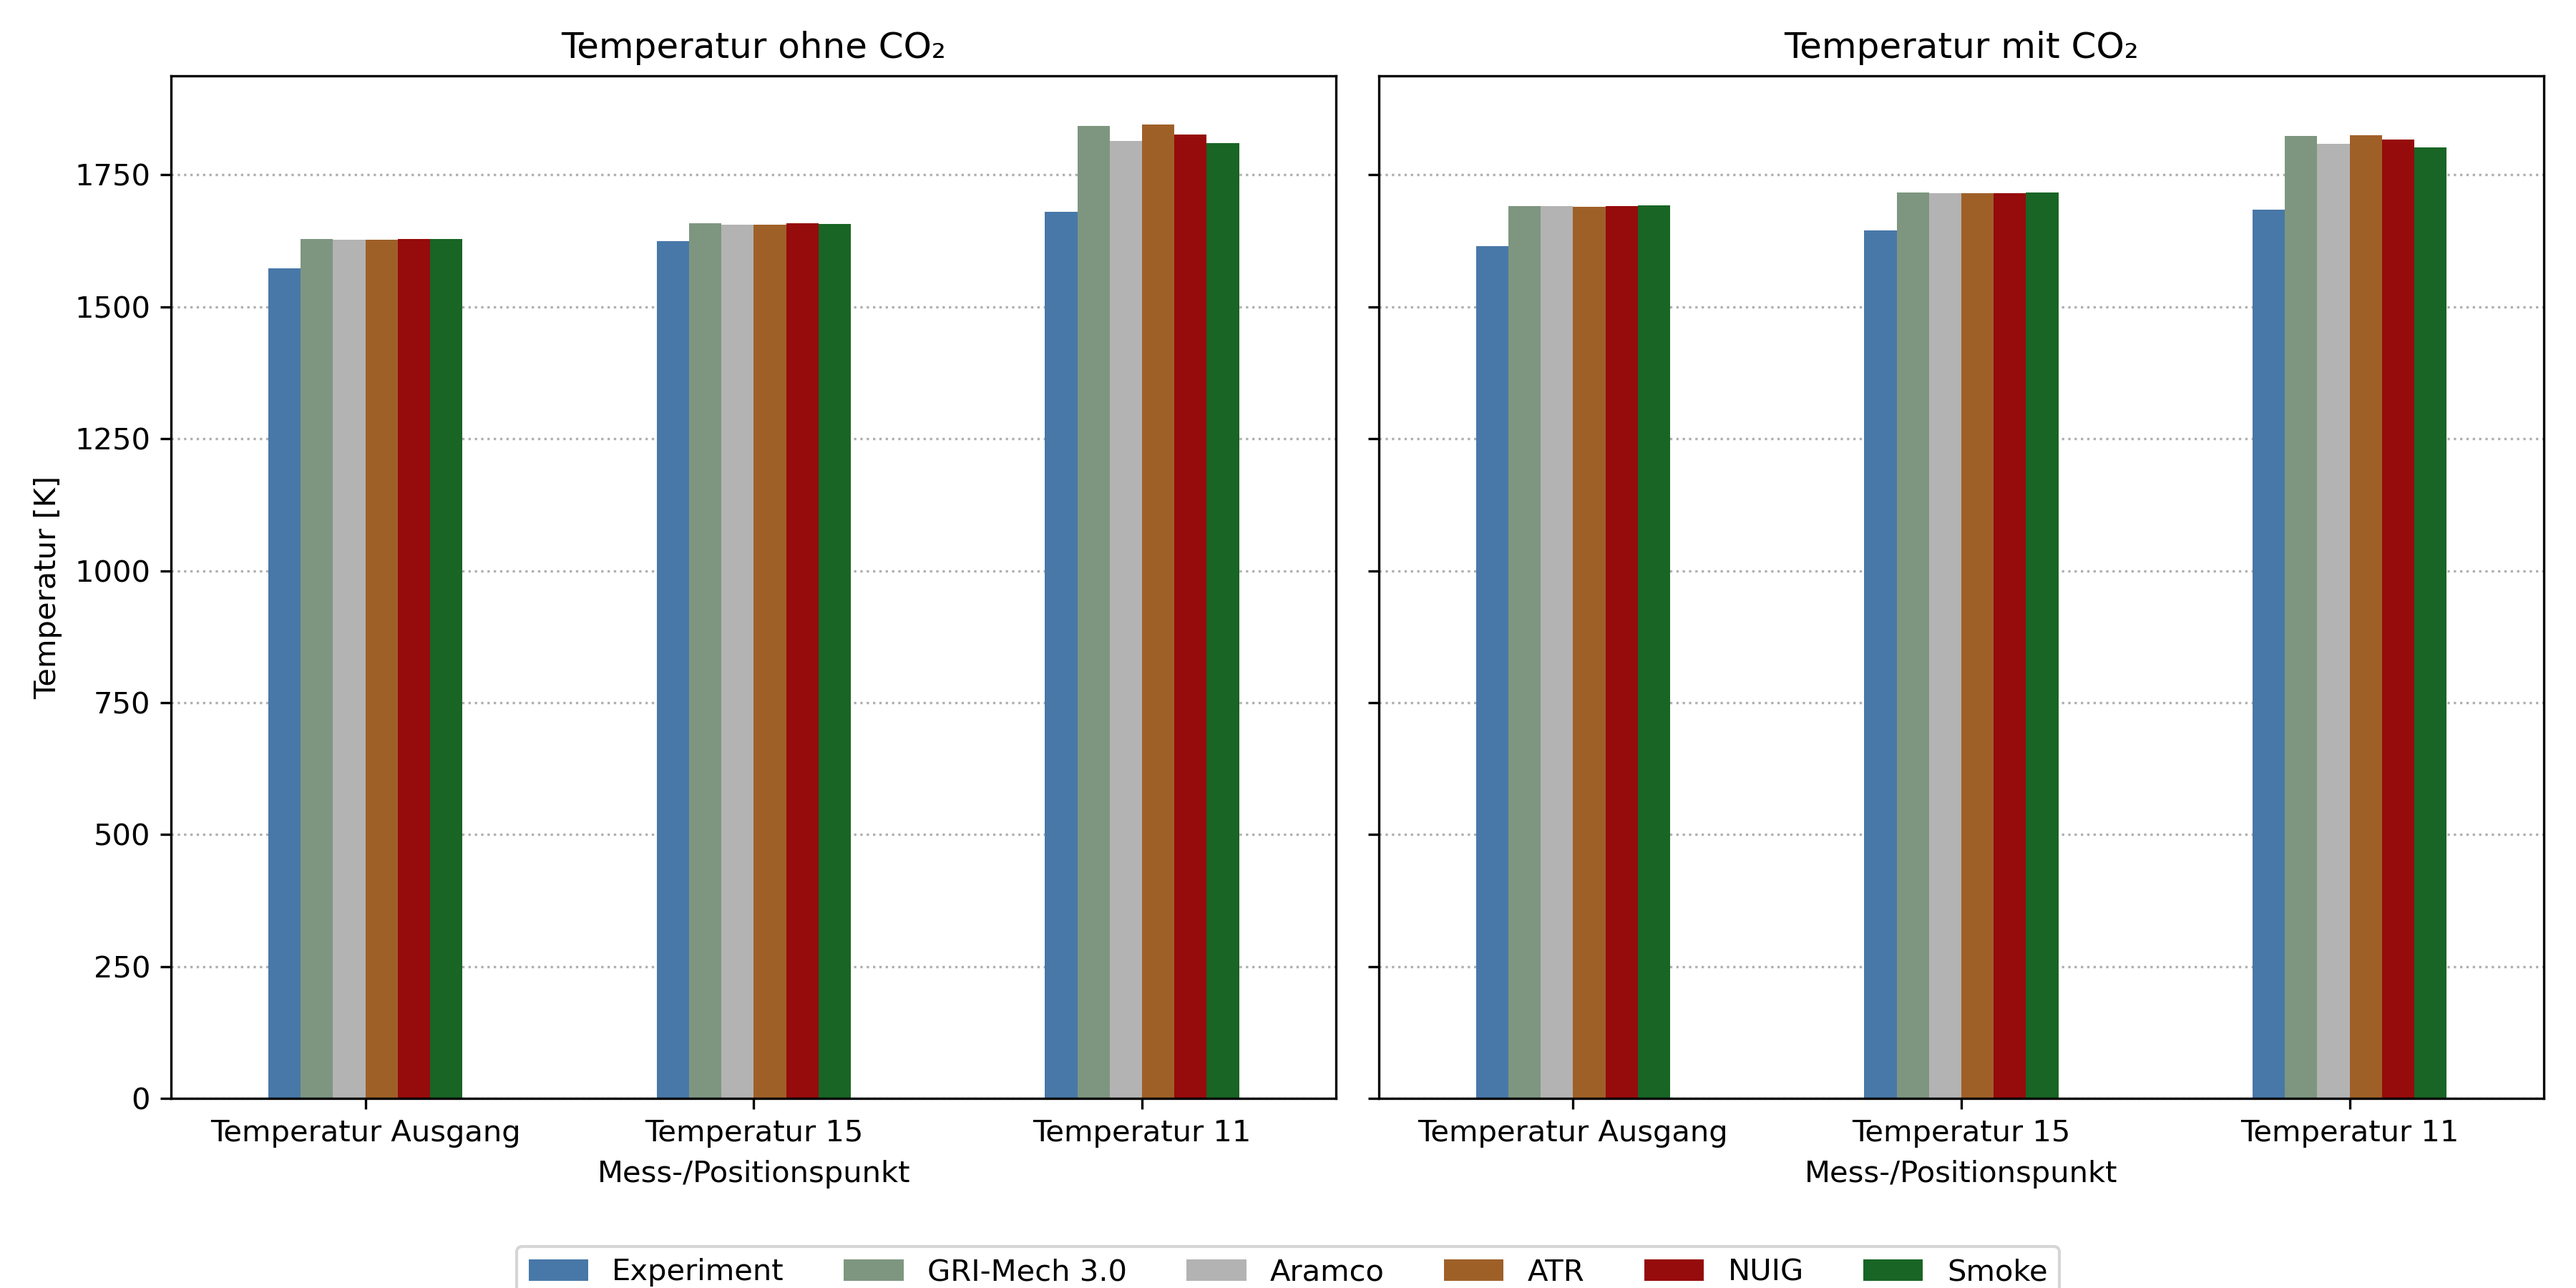
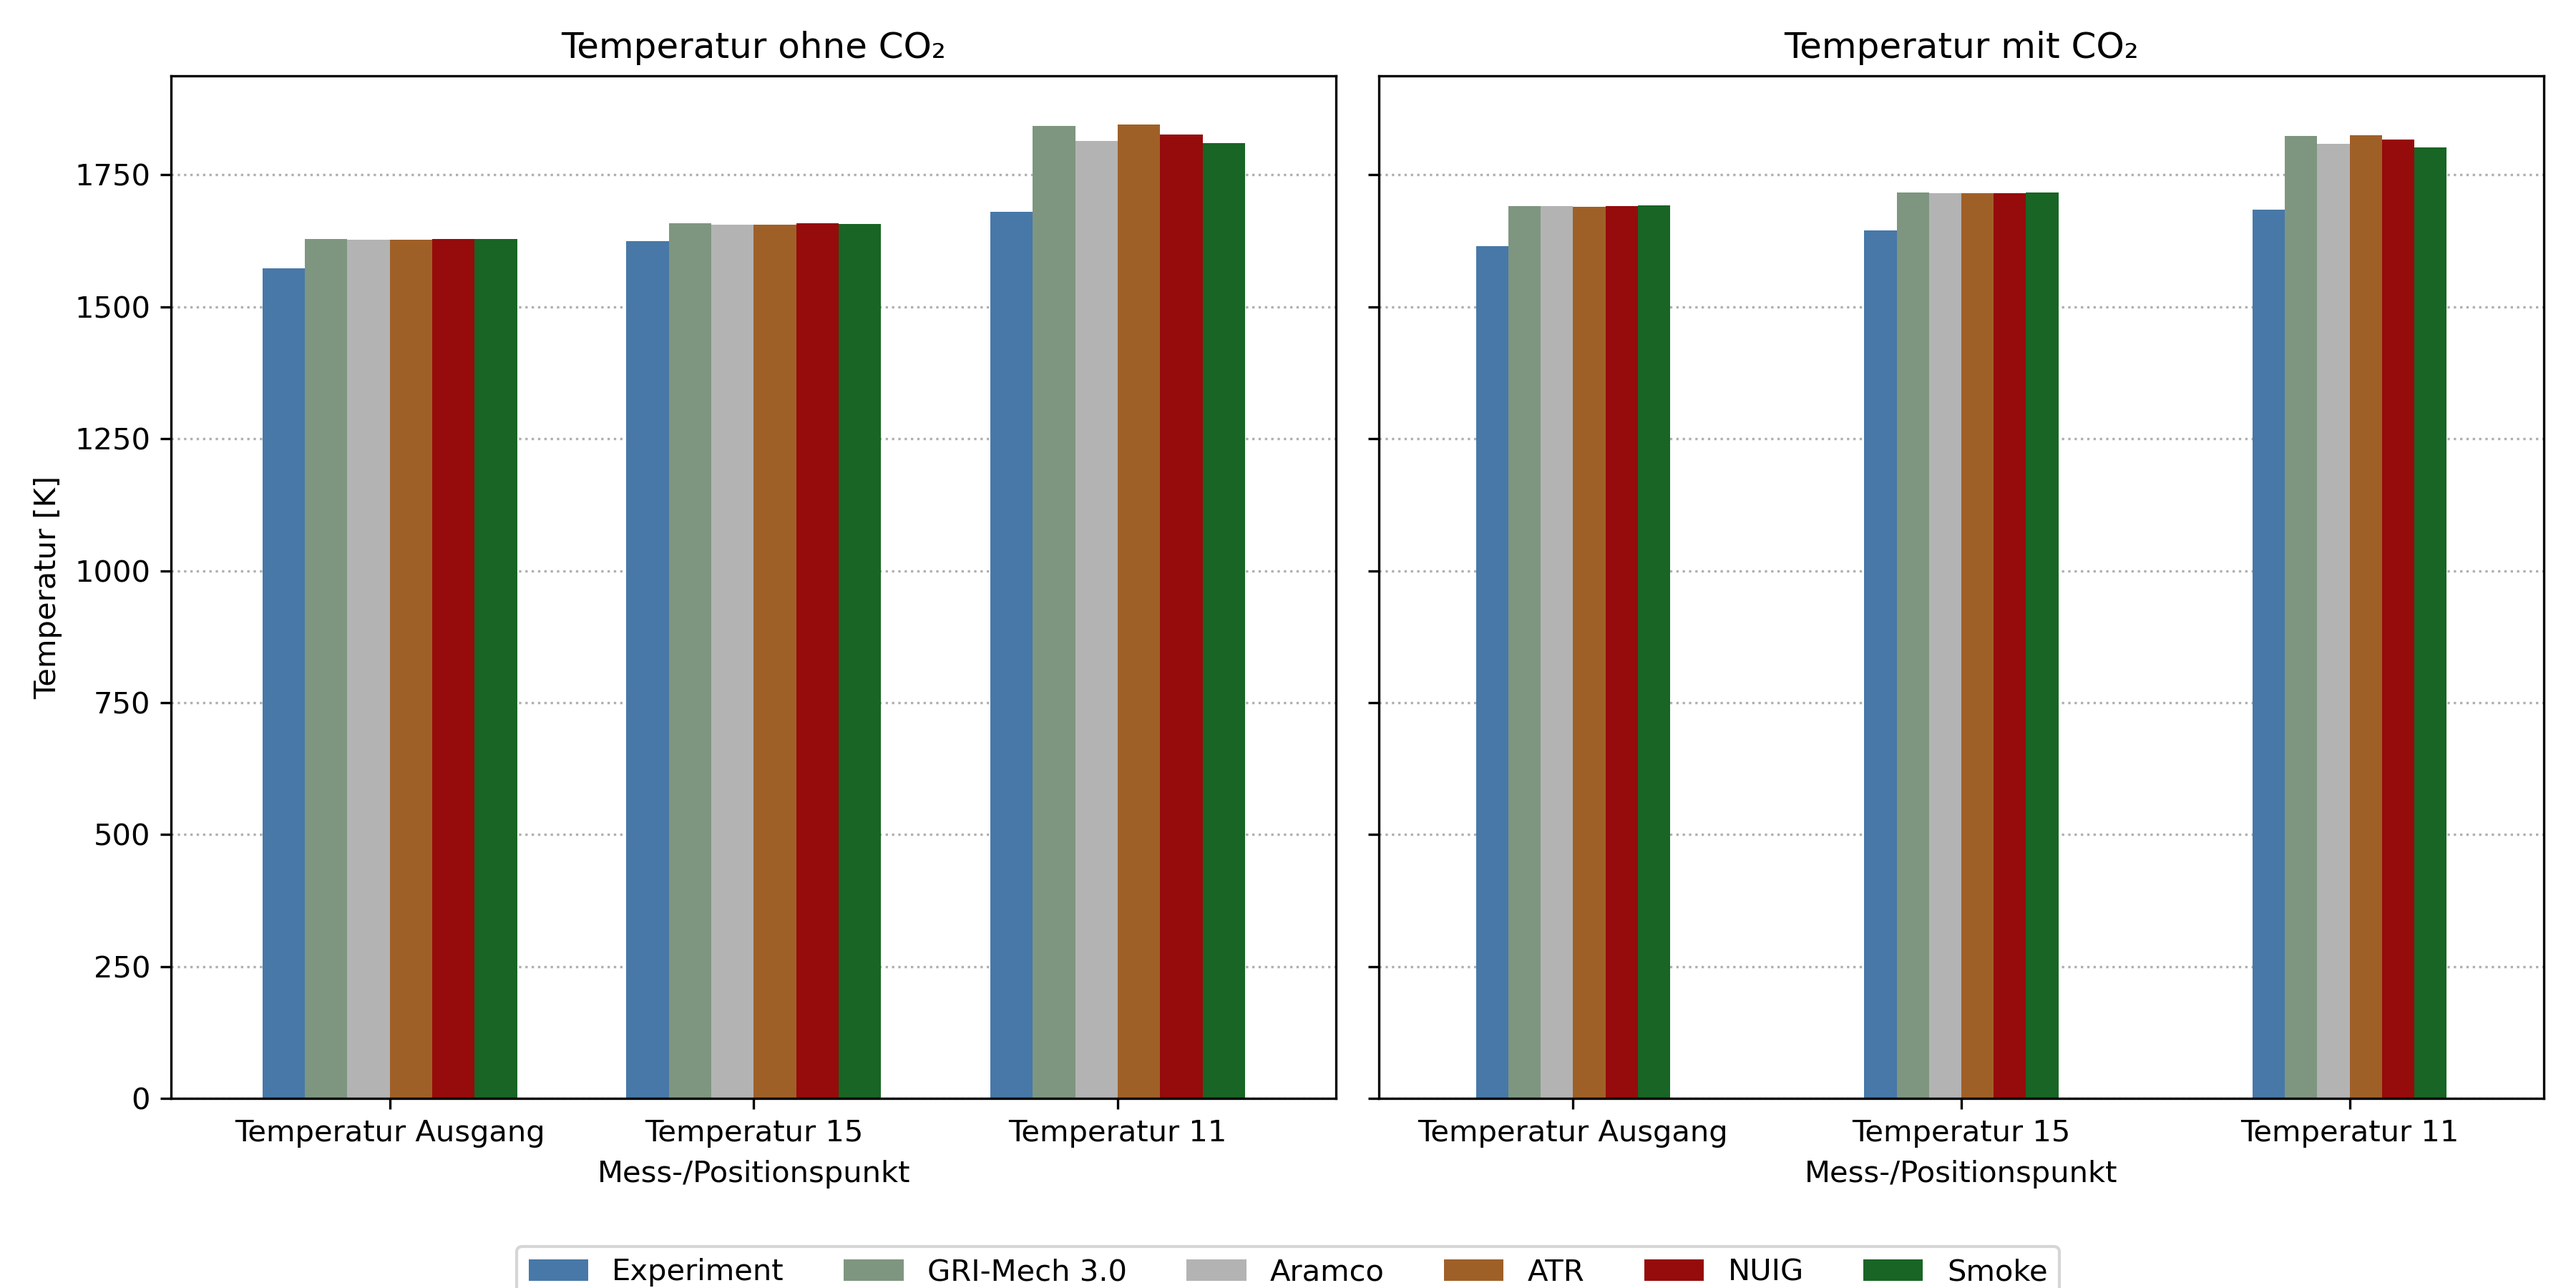
Plots mit Gap Mechanismen

Changed region(s): [[0.0933, 0.1556, 0.3422, 0.9022], [0.3733, 0.0933, 0.4978, 0.9022]]

diff --git a/Scripts/Auswertungen/Vergleich_ChemistrySet/Auswertung_Mechanismus.py b/Scripts/Auswertungen/Vergleich_ChemistrySet/Auswertung_Mechanismus.py
@@ -411,56 +411,88 @@ df_to_table(df_exp_data,
             )
 
 
-# Spalten gruppieren: jeweils "kein CO2" und "CO2" separat plotten
+
+# --- Eingaben ---
 gruppen = [
     ["kein CO2 Exp", "GRI_noCO2", "ARAMCO_noCO2", "ATR_noCO2", "NUIG_noCO2", "Smoke_noCO2"],
-    ["CO2 Exp",      "GRI_CO2",   "ARAMCO_CO2",   "ATR_CO2",   "NUIG_CO2", "Smoke_CO2"]
+    ["CO2 Exp",      "GRI_CO2",   "ARAMCO_CO2",   "ATR_CO2",   "NUIG_CO2",   "Smoke_CO2"]
 ]
 titel = ["Vergleich ohne CO₂", "Vergleich mit CO₂"]
 
-k = 10.0            # Skalierungsfaktor
-scale_species = ["CH4"]   # nur CH4 wird skaliert
+k = 10.0                 # Skalierung für CH4
+gap = 0.01               # zusätzlicher Abstand zwischen direkt nebeneinanderliegenden Säulen
+bar_width = 0.1        # Breite je Säule
+species_order = ["H2", "CO", "CH4", "CO2", "H2O"]  # falls du eine feste Reihenfolge willst
 
+# Farben (mindestens so viele wie Spalten je Plot)
+# colors = ["#4878A8", "#7E9680", "#B3B3B3", "#BC6C25", "#960B0B", "#077B1A"]
+
+# Mapping für schöne Labels
+legend_labels = {
+    "kein CO2 Exp": "Experiment",
+    "CO2 Exp": "Experiment",
+    "GRI_noCO2": "GRI-Mech 3.0",
+    "GRI_CO2": "GRI-Mech 3.0",
+    "ARAMCO_noCO2": "AramcoMech",
+    "ARAMCO_CO2": "AramcoMech",
+    "ATR_noCO2": "ATR",
+    "ATR_CO2": "ATR",
+    "NUIG_noCO2": "NUIG",
+    "NUIG_CO2": "NUIG",
+    "Smoke_noCO2": "OpenSmoke++",
+    "Smoke_CO2": "OpenSmoke++",
+}
+latex_labels = {"H2": r"H$_2$", "CO2": r"CO$_2$", "CH4": r"CH$_4 \cdot 10$", "H2O": r"H$_2$O", "CO": r"CO"}
+
+# --- Plot ---
 fig, axes = plt.subplots(1, 2, figsize=(13, 5), sharey=True)
 
 for i, group in enumerate(gruppen):
     ax = axes[i]
-    df_plot = df_exp_data[group].copy()
 
-    # CH4 skalieren (nur linke Achse)
+    # Daten vorbereiten
+    df_plot = df_exp_data[group].copy()
+    # optional Reihenfolge erzwingen, nur Zeilen behalten die existieren
+    if species_order:
+        keep = [s for s in species_order if s in df_plot.index]
+        df_plot = df_plot.loc[keep]
+
+    # CH4 skalieren (linke Achse)
     if "CH4" in df_plot.index:
         df_plot.loc["CH4"] = df_plot.loc["CH4"] * k
 
-    # Legendenlabels (Spaltennamen) anpassen
-    legend_labels = {
-        "kein CO2 Exp": "Experiment",
-        "CO2 Exp": "Experiment",
-        "GRI_noCO2": "GRI-Mech 3.0",
-        "GRI_CO2": "GRI-Mech 3.0",
-        "ARAMCO_noCO2": "AramcoMech",
-        "ARAMCO_CO2": "AramcoMech",
-        "ATR_noCO2": "ATR",
-        "ATR_CO2": "ATR",
-        "NUIG_noCO2": "NUIG",
-        "NUIG_CO2": "NUIG",
-        "Smoke_noCO2": "OpenSmoke++",
-        "Smoke_CO2": "OpenSmoke++",
-    }
-    df_plot.rename(columns=legend_labels, inplace=True)
+    # Spaltennamen für Legende mappen
+    df_plot = df_plot.rename(columns=legend_labels)
 
+    # x-Positionen je Spezies
+    x = np.arange(len(df_plot.index))
+    n_cols = df_plot.shape[1]
 
-    # Balken zeichnen (linke Achse)
-    latex_labels = {"H2": r"H$_2$", "CO2": r"CO$_2$", "CH4": r"CH$_4 \cdot 10$", "H2O": r"H$_2$O", "CO": r"CO"}
-    df_plot.rename(index=latex_labels, inplace=True)
-    df_plot.plot(kind="bar", ax=ax, color=colors)
-    ax.tick_params(axis='x', rotation=0)
+    # Bars manuell zeichnen mit zusätzlichem gap
+    for j, col in enumerate(df_plot.columns):
+        offsets = x + j * (bar_width + gap)
+        ax.bar(offsets, df_plot[col].values, width=bar_width, label=col, color=colors[j])
+
+    # xticks mittig unter die Gruppe setzen
+    group_span = n_cols * (bar_width + gap) - gap
+    centers = x + group_span / 2 - (bar_width + gap) / 2
+    ax.set_xticks(centers)
+    # Latex-Indexlabels setzen
+    tick_labels = [latex_labels.get(idx, idx) for idx in df_plot.index]
+    ax.set_xticklabels(tick_labels, rotation=0)
+
+    # Achsen, Titel, Raster
     ax.set_title(titel[i])
     ax.set_xlabel("Spezies")
-    ax.set_ylabel(f"Molenbruch (CH₄ ×{int(k)}, alle anderen original)")
+    ax.set_ylabel(f"Molenbruch (CH₄ ×{int(k)}, andere unverändert)")
     ax.grid(axis='y', linestyle=':')
-    ax.legend(loc="upper right")
 
-    # rechte Achse zeigt Originalwerte
+    # Legende nur einmal pro Subplot, Duplikate zusammenführen
+    handles, labels = ax.get_legend_handles_labels()
+    uniq = dict(zip(labels, handles))
+    ax.legend(uniq.values(), uniq.keys(), loc="upper right", frameon=False)
+
+    # rechte Achse für Original-CH4-Werte
     ax2 = ax.twinx()
     ax2.set_ylim(ax.get_ylim())
     ax2.set_yticks(ax.get_yticks())
@@ -468,7 +500,7 @@ for i, group in enumerate(gruppen):
     ax2.set_ylabel("Molenbruch (Originalwerte CH₄)")
 
 plt.tight_layout()
-plt.savefig("img/vergleich_Experimentaldaten_scaled_CH4.png", dpi=300)
+plt.savefig("img/vergleich_Experimentaldaten_scaled_CH4_gap.png", dpi=300)
 plt.close()
 
 #%% Temperatur und CH4 Plot 
@@ -642,60 +674,60 @@ df_temp_no_CO2 = df_temp_no_CO2.loc[temp_rows]
 df_temp_CO2   = df_temp_CO2.loc[temp_rows]
 
 # -----------------------------
-# Plot
+# Parameter für Abstände/Breiten
 # -----------------------------
-# Falls nur ein Satz verfügbar wäre, könnte man hier dynamisch 1x1 setzen – bei dir sind beide vorhanden.
+gap = 0.01          # zusätzlicher Abstand zwischen direkt benachbarten Säulen
+bar_width = 0.10    # Breite je Säule
+
+# -----------------------------
+# Plot (manuell, damit gap & bar_width wirken)
+# -----------------------------
+import numpy as np
 fig, axes = plt.subplots(1, 2, figsize=(12, 6), sharey=True)
 
-# ohne CO2
-df_temp_no_CO2.plot(
-    kind="bar",
-    ax=axes[0],
-    color=colors[:len(df_temp_no_CO2.columns)],  # hier color, nicht colors!
-    legend=False
-)
-axes[0].set_title("Temperatur ohne CO₂")
-axes[0].set_xlabel("Mess-/Positionspunkt")
-axes[0].set_ylabel("Temperatur [K]")
-axes[0].tick_params(axis="x", rotation=0)
-axes[0].grid(axis="y", linestyle="dotted")
-axes[0].set_axisbelow(True)
+datasets = [(df_temp_no_CO2, "Temperatur ohne CO₂"), (df_temp_CO2, "Temperatur mit CO₂")]
 
-# mit CO2
-df_temp_CO2.plot(
-    kind="bar",
-    ax=axes[1],
-    color=colors[:len(df_temp_CO2.columns)],
-    legend=False
-)
+for i, (df_temp, title) in enumerate(datasets):
+    ax = axes[i]
+    x = np.arange(len(df_temp.index))
+    n_cols = len(df_temp.columns)
 
-axes[1].set_title("Temperatur mit CO₂")
-axes[1].set_xlabel("Mess-/Positionspunkt")
-axes[1].tick_params(axis="x", rotation=0)
-axes[1].grid(axis="y", linestyle="dotted")
-axes[1].set_axisbelow(True)
+    # Balken zeichnen
+    for j, col in enumerate(df_temp.columns):
+        offset = j * (bar_width + gap)
+        ax.bar(
+            x + offset,
+            df_temp[col].values.astype(float),
+            width=bar_width,
+            label=col,
+            color=colors[j % len(colors)]
+        )
 
-# Gemeinsame y-Untergrenze
-axes[0].set_ylim(bottom=0)
+    # xticks mittig unter die Gruppen
+    group_span = n_cols * (bar_width + gap) - gap
+    centers = x + group_span / 2 - (bar_width + gap) / 2
+    ax.set_xticks(centers)
+    ax.set_xticklabels(df_temp.index, rotation=0)
 
-# Legende (zentral unter beiden Plots)
-handles, labels = axes[1].get_legend_handles_labels()
-if not handles:
-    # Falls pandas keine Handles zurückgibt (weil legend=False),
-    # baue sie aus den Spaltennamen des rechten Plots.
-    labels = list(df_temp_CO2.columns)
+    # Achsen, Titel, Raster
+    ax.set_title(title)
+    ax.set_xlabel("Mess-/Positionspunkt")
+    if i == 0:
+        ax.set_ylabel("Temperatur [K]")
+        ax.set_ylim(bottom=0)
+    ax.grid(axis="y", linestyle="dotted")
+    ax.set_axisbelow(True)
 
+# Legende zentral unten
 fig.legend(
-    labels,
+    columns,
     loc="lower center",
     ncol=len(columns),
     bbox_to_anchor=(0.5, -0.02),
 )
 
-plt.tight_layout(rect=[0, 0.05, 1, 1])  # Platz für Legende unten
-
-# Ausgabeordner sicherstellen
-plt.savefig("img/Vergleich_Temperaturen.png", dpi=300)
+plt.tight_layout(rect=[0, 0.05, 1, 1])
+plt.savefig("img/Vergleich_Temperaturen_gap_manual.png", dpi=300)
 # plt.show()
 
 #%% Berechnung MSE mit Temperatur
